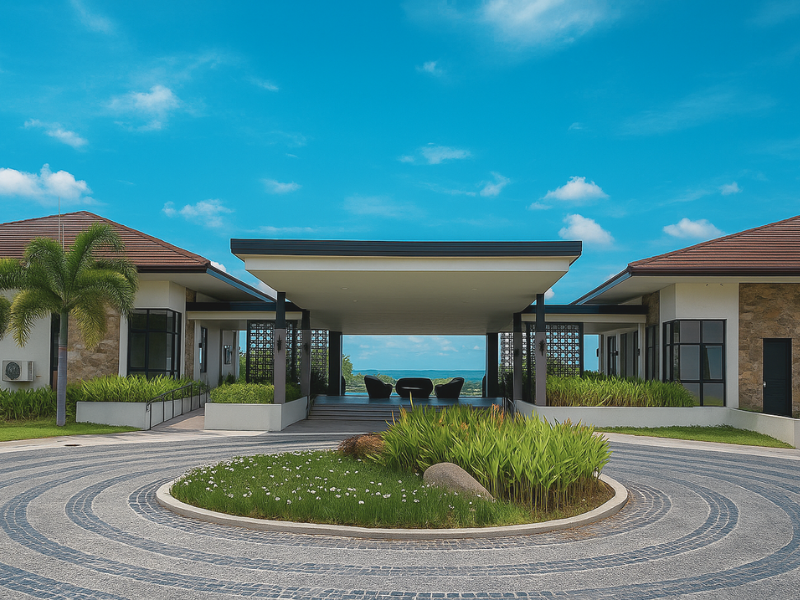
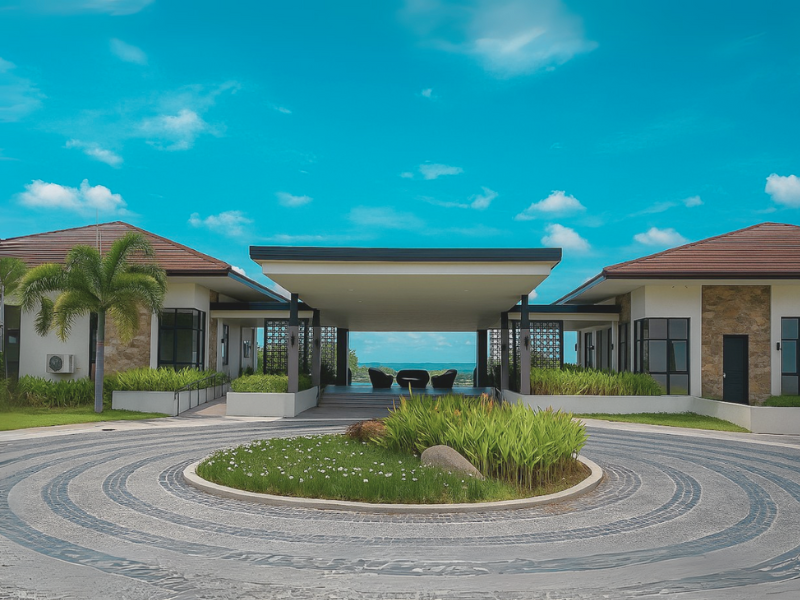
added listing 3

diff --git a/Listing3.html b/Listing3.html
@@ -1,0 +1,226 @@
+<!DOCTYPE html>
+<html lang="en">
+
+<head>
+  <meta charset="utf-8">
+  <meta content="width=device-width, initial-scale=1.0" name="viewport">
+
+  <title>Landlan Realty & Development</title>
+  <meta content="" name="description">
+  <meta content="" name="keywords">
+
+  <!-- Favicons -->
+  <link href="assets/img/Landlan-logo-white.png" rel="icon">
+  <link href="assets/img/apple-touch-icon.png" rel="apple-touch-icon">
+
+  <!-- Google Fonts -->
+  <link href="https://fonts.googleapis.com/css?family=Open+Sans:300,300i,400,400i,600,600i,700,700i|Montserrat:300,300i,400,400i,500,500i,600,600i,700,700i|Poppins:300,300i,400,400i,500,500i,600,600i,700,700i" rel="stylesheet">
+
+  <!-- Vendor CSS Files -->
+  <link href="assets/vendor/aos/aos.css" rel="stylesheet">
+  <link href="assets/vendor/bootstrap/css/bootstrap.min.css" rel="stylesheet">
+  <link href="assets/vendor/bootstrap-icons/bootstrap-icons.css" rel="stylesheet">
+  <link href="assets/vendor/boxicons/css/boxicons.min.css" rel="stylesheet">
+  <link href="assets/vendor/glightbox/css/glightbox.min.css" rel="stylesheet">
+  <link href="assets/vendor/swiper/swiper-bundle.min.css" rel="stylesheet">
+
+  <!-- Template Main CSS File -->
+  <link href="assets/css/style.css" rel="stylesheet">
+
+</head>
+
+<body>
+
+  <!-- ======= Header ======= -->
+  <header id="header" class="d-flex align-items-center">
+    <div class="container d-flex align-items-center justify-content-between">
+
+      <div class="logo">
+        <a href="index.html"><img src="assets/img/landlan-full-logo.png" alt="" class="img-fluid"></a>
+      </div>
+
+      <nav id="navbar" class="navbar">
+        <ul>
+          <li><a class="nav-link scrollto " href="index.html">Home</a></li>
+          <li><a class="nav-link scrollto" href="index.html#about">About</a></li>
+          <li><a class="nav-link scrollto" href="index.html#services">Services</a></li>
+          <li><a class="nav-link scrollto " href="index.html#portfolio">Listings</a></li>
+          <li><a class="nav-link scrollto" href="index.html#pricing">Reports</a></li>
+          <li><a class="nav-link scrollto" href="index.html#team">Projects</a></li>
+          <!-- <li class="dropdown"><a href="#"><span>Drop Down</span> <i class="bi bi-chevron-down"></i></a>
+            <ul>
+              <li><a href="#">Drop Down 1</a></li>
+              <li class="dropdown"><a href="#"><span>Deep Drop Down</span> <i class="bi bi-chevron-right"></i></a>
+                <ul>
+                  <li><a href="#">Deep Drop Down 1</a></li>
+                  <li><a href="#">Deep Drop Down 2</a></li>
+                  <li><a href="#">Deep Drop Down 3</a></li>
+                  <li><a href="#">Deep Drop Down 4</a></li>
+                  <li><a href="#">Deep Drop Down 5</a></li>
+                </ul>
+              </li>
+              <li><a href="#">Drop Down 2</a></li>
+              <li><a href="#">Drop Down 3</a></li>
+              <li><a href="#">Drop Down 4</a></li>
+            </ul>
+          </li> -->
+          <li><a class="nav-link scrollto" href="index.html#contact">Contact</a></li>
+        </ul>
+        <i class="bi bi-list mobile-nav-toggle"></i>
+      </nav><!-- .navbar -->
+
+    </div>
+  </header><!-- End Header -->
+
+  <main id="main" data-aos="fade-up">
+
+    <!-- ======= Breadcrumbs ======= -->
+    <section id="breadcrumbs" class="breadcrumbs">
+      <div class="container">
+
+        <div class="d-flex justify-content-between align-items-center">
+          <h2><b>Exclusive Prime Residential Lot for Sale</b></h2>
+          <ol>
+            <li><a href="index.html">Home</a></li>
+            <li>Exclusive Prime Residential Lot for Sale</li>
+          </ol>
+        </div>
+
+      </div>
+    </section><!-- End Breadcrumbs -->
+
+    <!-- ======= Portfolio Details Section ======= -->
+    <section id="portfolio" class="portfolio-details">
+      <div class="container">
+
+        <div class="row gy-4">
+
+          <div class="col-lg-8">
+            <div class="portfolio-details-slider swiper-container">
+              <div class="swiper-wrapper align-items-center">
+
+                <div class="swiper-slide">
+                  <img src="assets/img/Listings/Listing3/L3.png" alt="">
+                </div>
+
+                <div class="swiper-slide">
+                  <img src="assets/img/Listings/Listing3/l3a.png" alt="">
+                </div>
+
+                <div class="swiper-slide">
+                  <img src="assets/img/Listings/Listing3/l3b.png" alt="">
+                </div>
+
+                <div class="swiper-slide">
+                  <img src="assets/img/Listings/Listing3/l3d.png" alt="">
+                </div>
+              </div>
+              <div class="swiper-pagination"></div>
+            </div>
+          </div>
+
+          <div class="col-lg-4">
+            <div class="portfolio-info">
+              <h3>Avida Woodhill Settings, NUVALI</h3>
+              <ul>
+                <li><strong>Category</strong>: Residential</li>
+                <li><strong>Location</strong>: Woodhill Settings NUVALI</li>
+                <li><strong>Floor Area</strong>: 279 sqm</li>
+                <li>Walking Distance to Clubhouse & Amenities</li>
+                <li>Clean Title</li></li>
+                <li>Ideal for building a family home or investment</li>
+                <li>Developed by <b>Avida Land</b> (an Ayala Land Company)</li>
+                <hr>
+                <ul><strong>Why Choose NUVALI?</strong><br><br>
+                  <li><i>Masterplanned community with green spaces, lakes, parks</i></li>
+                  <li><i>Near schools, malls, hospitals, and commercial hubs</i></li>
+                  <li><i>Quick access to SLEX via several exits</i></li>
+                  <li><i>Safe, gated, and flood-free community</i></li>
+                </ul>
+              </ul>
+            </div>
+          </div>
+        
+        <div class="portfolio-description">
+            <h2>Your Dream Lot with a View</h2>
+            <p>
+              Enjoy unobstructed 360-degree panoramic views of:
+              <ul>
+                <li><i> Tagaytay Ridge</i></li>
+                <li><i> Mt. Makiling</i></li>
+                <li><i> Laguna de Bay</i></li>
+              </ul>
+              📞 Contact us today for viewing or inquiries: <b>0927-278-8828</b><br><br>
+
+            </p>
+          </div>
+        </div>
+
+      </div>
+    </section><!-- End Portfolio Details Section -->
+
+  </main><!-- End #main -->
+
+  <!-- ======= Footer ======= -->
+  <footer id="footer">
+
+    <div class="footer-top">
+
+      <div class="container">
+
+        <div class="row justify-content-center">
+          <div class="col-lg-6">
+            <a href="#header" class="scrollto footer-logo"><img src="assets/img/landlan-full-logo.png" alt="" style="height: 150px; margin-bottom: -50px;"></a>
+            <!-- <h3>Knight</h3> -->
+            <p>LAND to Liven an Affordable Nation</p>
+          </div>
+        </div>
+
+        <div class="row footer-newsletter justify-content-center">
+          <div class="col-lg-6">
+            <form action="" method="post">
+              <input type="email" name="email" placeholder="Enter your Email"><input type="submit" value="Subscribe">
+            </form>
+          </div>
+        </div>
+
+        <div class="social-links">
+          <a href="#" class="twitter"><i class="bx bxl-twitter"></i></a>
+          <a href="#" class="facebook"><i class="bx bxl-facebook"></i></a>
+          <a href="#" class="instagram"><i class="bx bxl-instagram"></i></a>
+          <a href="#" class="google-plus"><i class="bx bxl-skype"></i></a>
+          <a href="#" class="linkedin"><i class="bx bxl-linkedin"></i></a>
+        </div>
+
+      </div>
+    </div>
+
+    <div class="container footer-bottom clearfix">
+      <div class="copyright">
+        &copy; Copyright. All Rights Reserved
+      </div>
+      <div class="credits">
+        Designed by <a href="#" target="_blank">Ronmar Calingasan</a>
+      </div>
+      <div class="credits">
+        Distributed by <a href="#" target="_blank">Landlan Realty & Development Corporation</a>
+      </div>
+    </div>
+  </footer><!-- End Footer -->
+
+  <a href="#" class="back-to-top d-flex align-items-center justify-content-center"><i class="bi bi-arrow-up-short"></i></a>
+
+  <!-- Vendor JS Files -->
+  <script src="assets/vendor/aos/aos.js"></script>
+  <script src="assets/vendor/bootstrap/js/bootstrap.bundle.min.js"></script>
+  <script src="assets/vendor/glightbox/js/glightbox.min.js"></script>
+  <script src="assets/vendor/isotope-layout/isotope.pkgd.min.js"></script>
+  <script src="assets/vendor/php-email-form/validate.js"></script>
+  <script src="assets/vendor/swiper/swiper-bundle.min.js"></script>
+
+  <!-- Template Main JS File -->
+  <script src="assets/js/main.js"></script>
+
+</body>
+
+</html>

diff --git a/index.html b/index.html
@@ -352,8 +352,8 @@
           <p>Magnam dolores commodi suscipit eius consequatur ex aliquid fuga eum quidem</p>
         </div>
         
-        <!-- card = Residential
-        app = Commercial
+        <!-- card = commercial
+        app = residential
         web = Lots -->
         <div class="row" data-aos="fade-up" data-aos-delay="100">
           <div class="col-lg-12 d-flex justify-content-center">
@@ -382,7 +382,7 @@
             </div>
           </div>
 
-          <div class="col-lg-4 col-md-6 portfolio-item filter-app">
+          <div class="col-lg-4 col-md-6 portfolio-item filter-card">
             <div class="portfolio-wrap">
               <img src="assets/img/Listings/2.png" class="img-fluid" alt="">
               <div class="portfolio-info">
@@ -396,7 +396,7 @@
             </div>
           </div>
 
-          <div class="col-lg-4 col-md-6 portfolio-item filter-app">
+          <div class="col-lg-4 col-md-6 portfolio-item filter-card">
             <div class="portfolio-wrap">
               <img src="assets/img/Listings/3.png" class="img-fluid" alt="">
               <div class="portfolio-info">
@@ -410,7 +410,7 @@
             </div>
           </div>
 
-          <div class="col-lg-4 col-md-6 portfolio-item filter-card">
+          <div class="col-lg-4 col-md-6 portfolio-item filter-web">
             <div class="portfolio-wrap">
               <img src="assets/img/Listings/Listing3/L3.png" class="img-fluid" alt="">
               <div class="portfolio-info">
@@ -418,13 +418,13 @@
                 <p>Avida Woodhill Settings, NUVALI</p>
                 <div class="portfolio-links">
                   <a href="assets/img/Listings/Listing3/L3-b.png" data-gallery="portfolioGallery" class="portfolio-lightbox" title="Build your forever home on this 279 sqm residential lot located at the highest point of NUVALI."><i class="bx bx-plus"></i></a>
-                  <a href="portfolio-details.html" title="More Details"><i class="bx bx-link"></i></a>
+                  <a href="Listing3.html" title="More Details"><i class="bx bx-link"></i></a>
                 </div>
               </div>
             </div>
           </div>
 
-          <div class="col-lg-4 col-md-6 portfolio-item filter-card">
+          <div class="col-lg-4 col-md-6 portfolio-item filter-app">
             <div class="portfolio-wrap">
               <img src="assets/img/Listings/5.png" class="img-fluid" alt="">
               <div class="portfolio-info">
@@ -438,7 +438,7 @@
             </div>
           </div>
 
-          <div class="col-lg-4 col-md-6 portfolio-item filter-card">
+          <div class="col-lg-4 col-md-6 portfolio-item filter-app">
             <div class="portfolio-wrap">
               <img src="assets/img/Listings/6.png" class="img-fluid" alt="">
               <div class="portfolio-info">
@@ -938,7 +938,7 @@
 
         <div class="section-title">
           <h2>Contact</h2>
-          <p>Magnam dolores commodi suscipit eius consequatur ex aliquid fuga eum quidem</p>
+          <p>Have questions? Let's get in touch!</p>
         </div>
 
         <div class="row">
